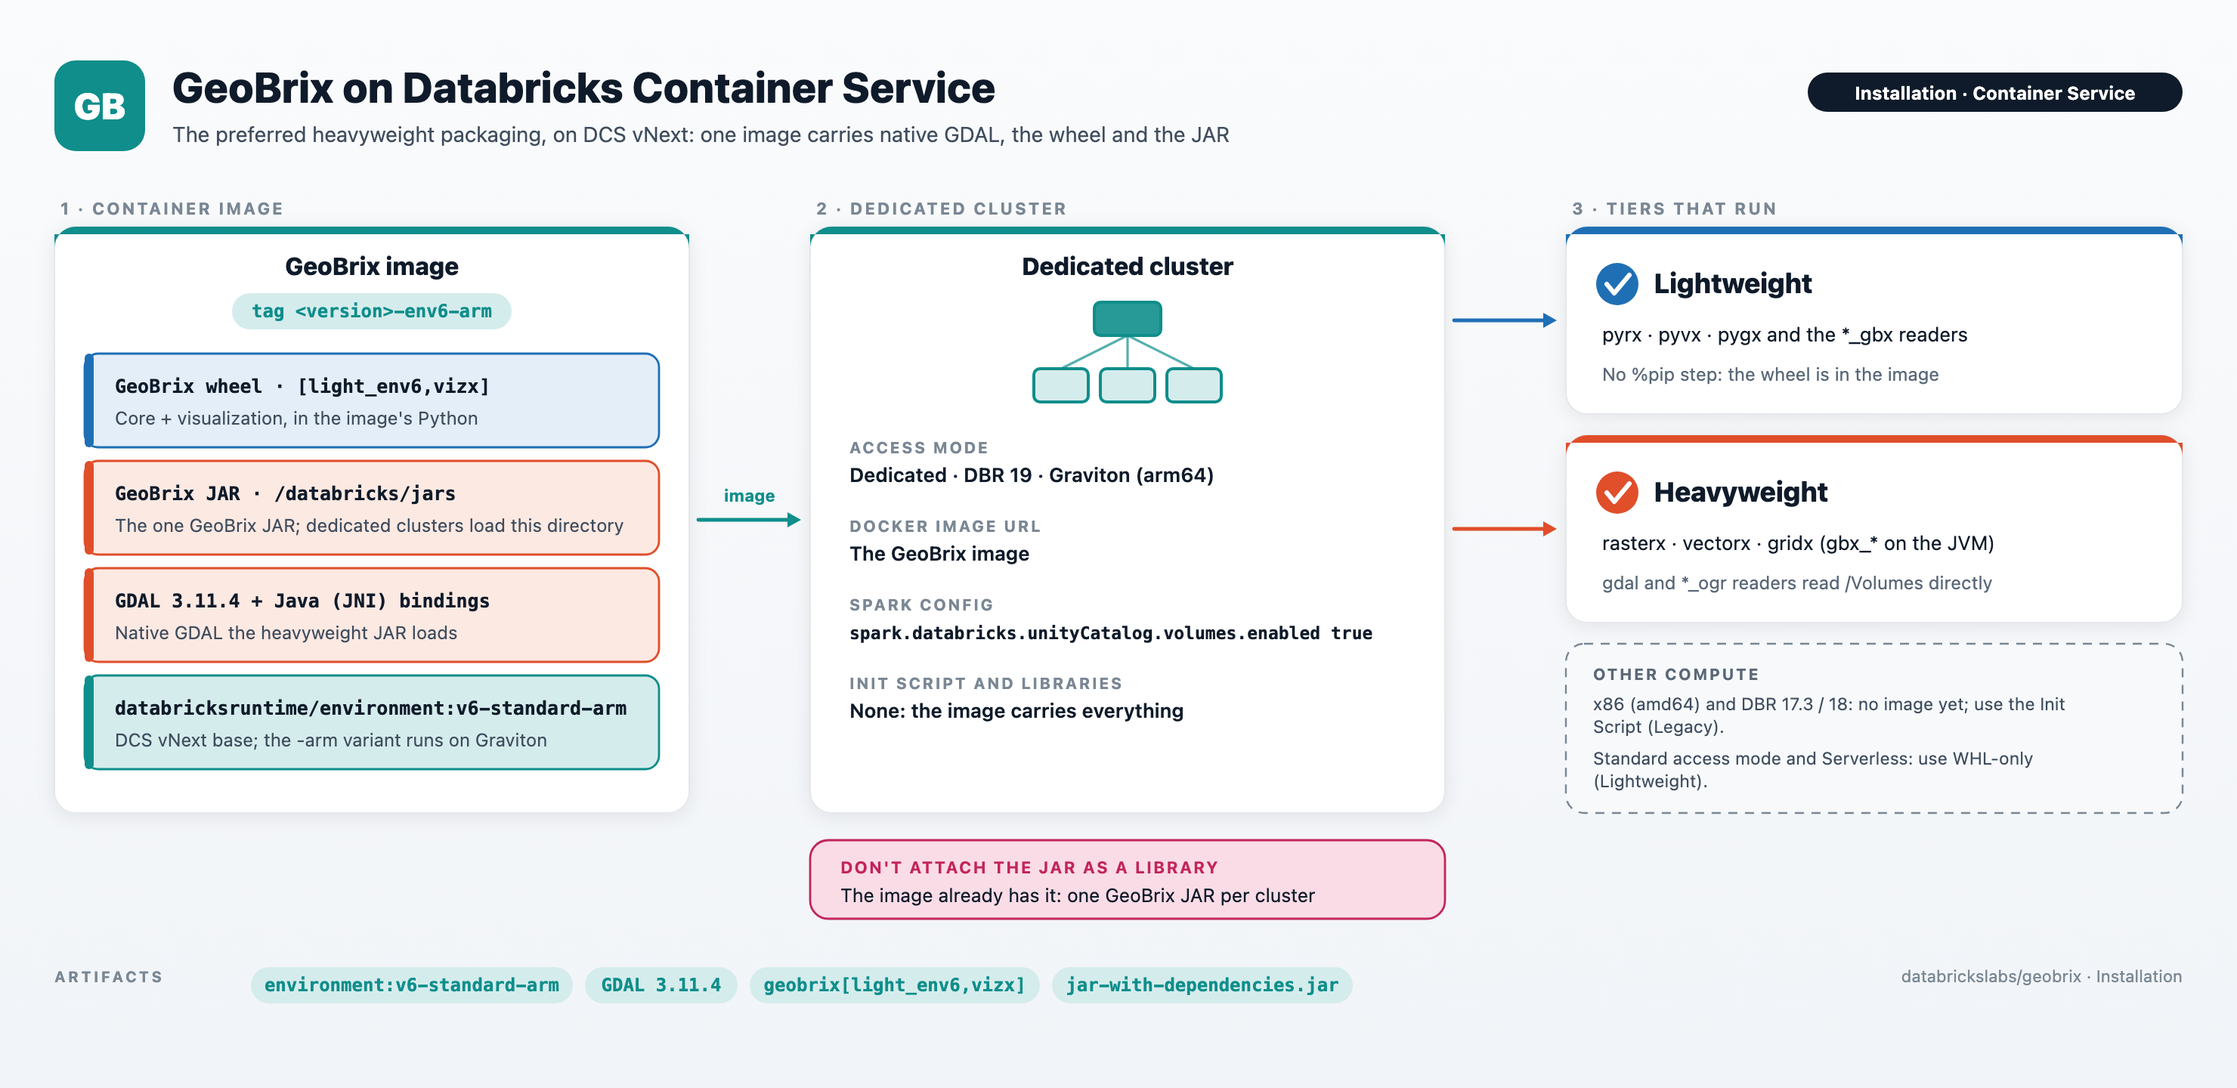
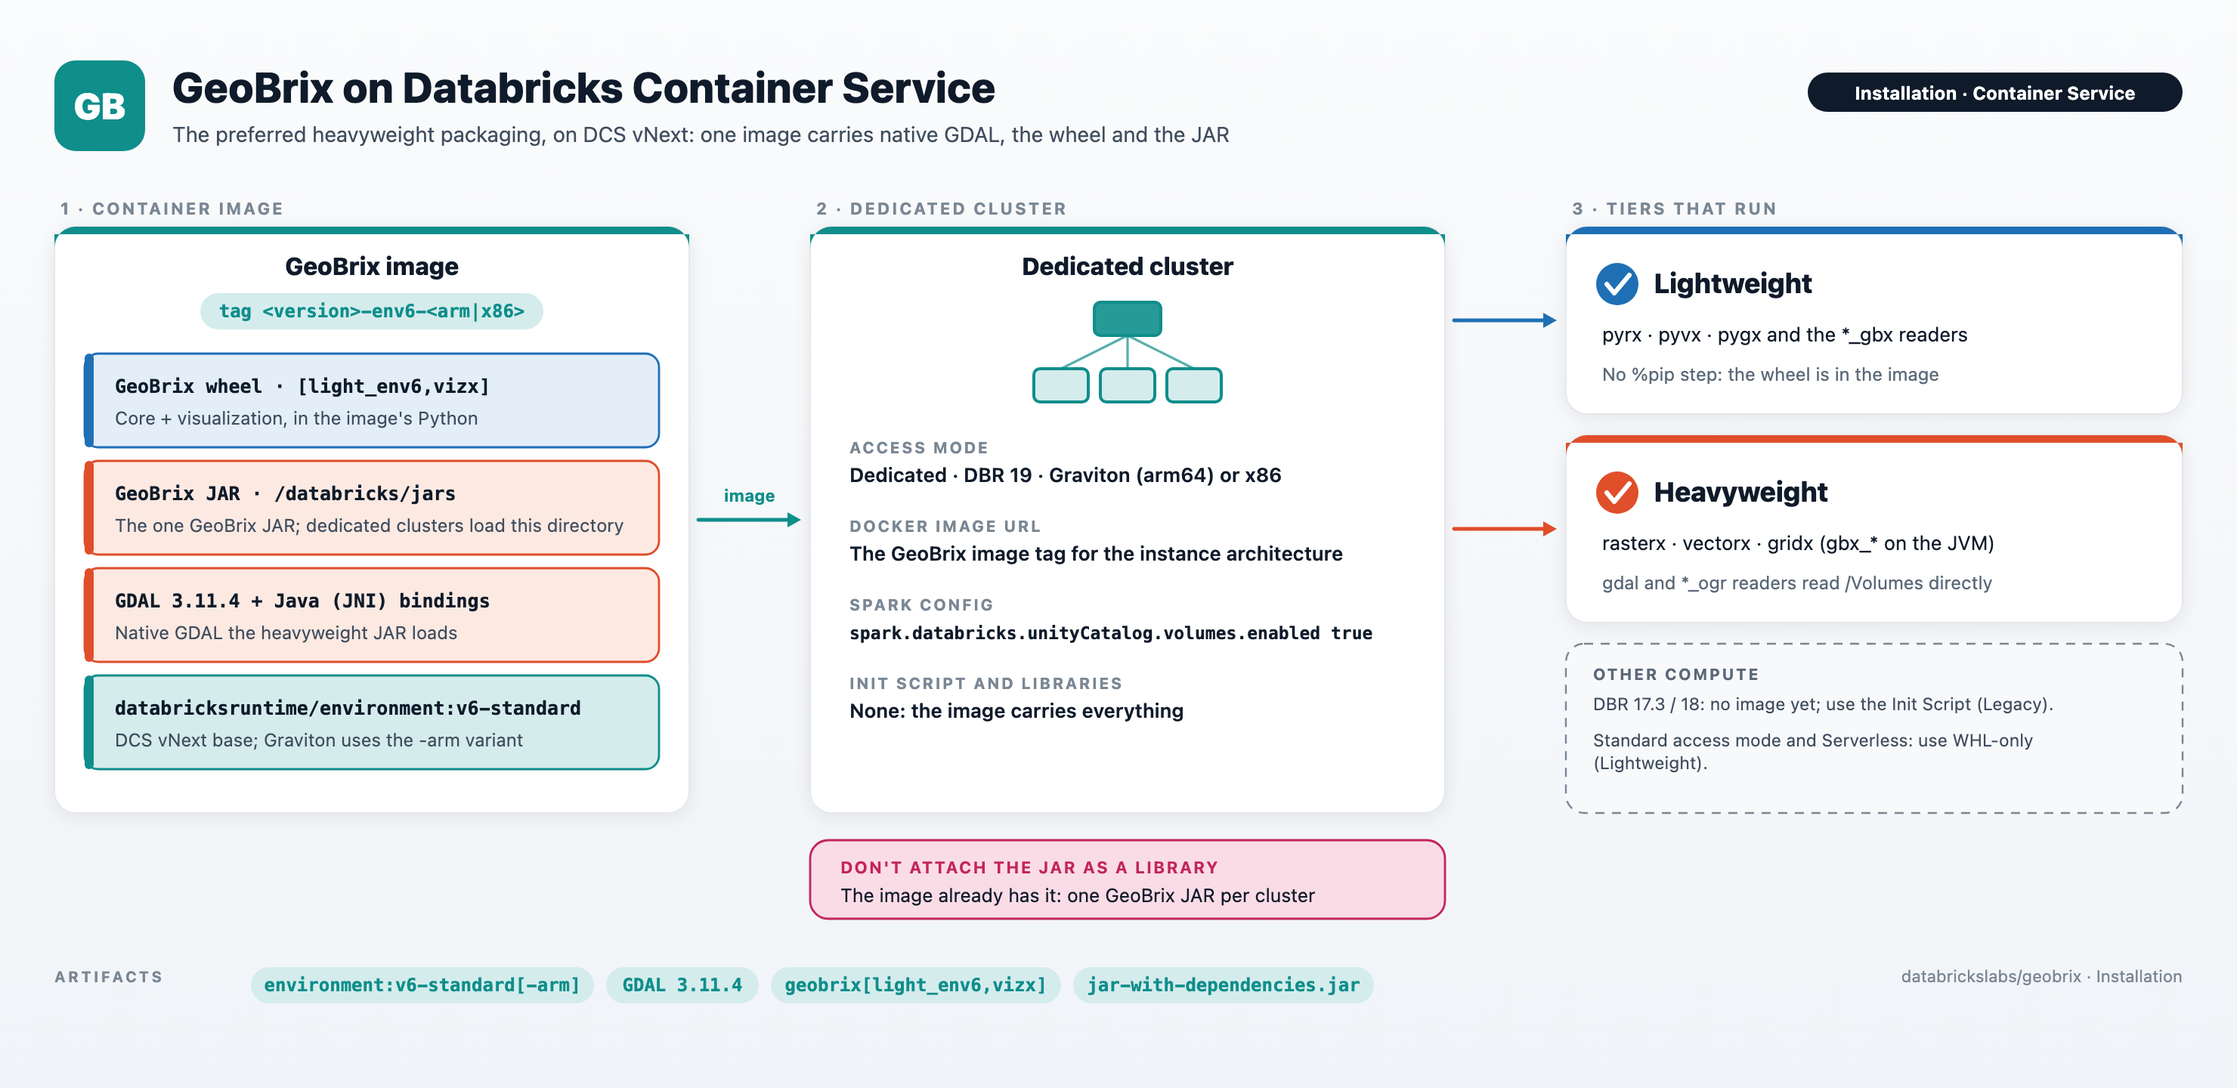
docs(dcs): x86 (amd64) image verified alongside arm64
The x86 image ran both tiers on a dedicated x86 cluster on DBR 19 with
the same results as the Graviton image, so the pages that called x86
"not yet available" or the DCS image Graviton-only were out of date and
would steer x86 users to the legacy init script for no reason.

Status table, image tags (env6-x86 next to env6-arm), cluster setup (pick
the tag that matches the instance architecture), the installation pages,
release notes, the compute tables and the "(preferred; ...)" mentions on
the reader and writer pages now cover both architectures. Only DBR 17.3 /
18 stays "not yet available". The release runbook shows both
architectures, each verified and released with its own --expect-digest.
The install-path and DCS diagrams are regenerated with their alt texts.

diff --git a/resources/images/generators/installation.py b/resources/images/generators/installation.py
@@ -238,10 +238,10 @@ PATHS = [
          tiers=["Lightweight"]),
     dict(theme=TEAL, glyph=g_container, letter="b",
          title="Databricks Container Service", chip="GeoBrix container image",
-         branch="Heavyweight · Graviton (arm64)", badge="PREFERRED",
-         runs="Dedicated cluster · Graviton (arm64) · DBR 19",
+         branch="Heavyweight · arm64 or x86 · DBR 19", badge="PREFERRED",
+         runs="Dedicated cluster · Graviton (arm64) or x86 · DBR 19",
          install="A GeoBrix image with native GDAL, the wheel and the JAR: no init script, no cluster library",
-         extra="Not yet available: x86 (amd64) and DBR 17.3 / 18 images",
+         extra="Not yet available: DBR 17.3 / 18 images",
          tiers=["Lightweight", "Heavyweight"]),
     dict(theme=VIOLET, glyph=g_script, letter="c",
          title="Init Script (Legacy)", chip="geobrix-gdal-init.sh",
@@ -315,12 +315,12 @@ def body_dcs():
     x1, w1 = PAD, 420
     out.append(col_label(x1 + 4, top - 8, "1 · CONTAINER IMAGE", C_MUTED_3))
     out.append(panel(x1, top, w1, h, accent=TEAL["accent"], title="GeoBrix image"))
-    out.append(centered_chip(x1 + w1 / 2, top + 44, "tag  <version>-env6-arm", TEAL))
+    out.append(centered_chip(x1 + w1 / 2, top + 44, "tag  <version>-env6-<arm|x86>", TEAL))
     layers = [
         ("GeoBrix wheel  ·  [light_env6,vizx]", "Core + visualization, in the image's Python", BLUE),
         ("GeoBrix JAR  ·  /databricks/jars", "The one GeoBrix JAR; dedicated clusters load this directory", ORANGE),
         ("GDAL 3.11.4 + Java (JNI) bindings", "Native GDAL the heavyweight JAR loads", ORANGE),
-        ("databricksruntime/environment:v6-standard-arm", "DCS vNext base; the -arm variant runs on Graviton", TEAL),
+        ("databricksruntime/environment:v6-standard", "DCS vNext base; Graviton uses the -arm variant", TEAL),
     ]
     lh, lgap = 62, 9
     ly = top + 84
@@ -339,8 +339,8 @@ def body_dcs():
     out.append(panel(x2, top, w2, h, accent=TEAL["accent"], title="Dedicated cluster"))
     out.append(g_cluster(x2 + w2 / 2, top + 84, TEAL["accent"], TEAL["tint"]))
     rows = [
-        ("ACCESS MODE", "Dedicated  ·  DBR 19  ·  Graviton (arm64)"),
-        ("DOCKER IMAGE URL", "The GeoBrix image"),
+        ("ACCESS MODE", "Dedicated  ·  DBR 19  ·  Graviton (arm64) or x86"),
+        ("DOCKER IMAGE URL", "The GeoBrix image tag for the instance architecture"),
         ("SPARK CONFIG", "spark.databricks.unityCatalog.volumes.enabled true"),
         ("INIT SCRIPT AND LIBRARIES", "None: the image carries everything"),
     ]
@@ -394,9 +394,8 @@ def body_dcs():
                f'fill="#F7F9FB" stroke="{C_MUTED_3}" stroke-width="1.2" stroke-dasharray="6 5"/>')
     out.append(text(sx + 18, sy + 24, "OTHER COMPUTE", size=10.5, weight=700,
                     fill=C_MUTED_2, letter_spacing="1.2"))
-    for yy, msg in ((44, "x86 (amd64) and DBR 17.3 / 18: no image yet; use the "
-                         "Init Script (Legacy)."),
-                    (80, "Standard access mode and Serverless: use WHL-only (Lightweight).")):
+    for yy, msg in ((44, "DBR 17.3 / 18: no image yet; use the Init Script (Legacy)."),
+                    (68, "Standard access mode and Serverless: use WHL-only (Lightweight).")):
         out.extend(wrap_left(sx + 18, sy + yy, sw - 36, msg, size=11.5, fill=C_MUTED,
                              line_h=15))
     return "".join(out)
@@ -505,7 +504,7 @@ DIAGRAMS = {
         subtitle="The preferred heavyweight packaging, on DCS vNext: one image carries native GDAL, the wheel and the JAR",
         pill="Installation  ·  Container Service",
         body=body_dcs,
-        chips=["environment:v6-standard-arm", "GDAL 3.11.4", "geobrix[light_env6,vizx]",
+        chips=["environment:v6-standard[-arm]", "GDAL 3.11.4", "geobrix[light_env6,vizx]",
                "jar-with-dependencies.jar"],
     ),
     "init-script": dict(

diff --git a/examples/notebooks/helios/README.md b/examples/notebooks/helios/README.md
@@ -4,7 +4,7 @@ A four-notebook series that takes one San Francisco bounding box and turns it in
 
 The notebooks follow a solar site-selection narrative: identify candidate rooftops (vector, NB01), overlay an aerial basemap for visual validation (raster, NB02), and layer terrain-derived slope, aspect, and hillshade to score each candidate by sun exposure (elevation, NB03). A final notebook re-publishes the vector layer as a distributed, sharded PMTiles mosaic — many archives plus a catalog and manifest — for web-scale delivery (NB04). The single-archive outputs feed a single `plot_pmtiles` / `plot_cog` viewer at the end.
 
-> **Lightweight tier (Serverless) by default.** The series uses the lightweight tier — pure Python/PySpark bindings (`databricks.labs.gbx.pyrx`, `pyvx`) plus the `geobrix[light_env6,stac,vizx,overture]` wheel installed by `config_nb` — so it runs on Serverless with no JAR. STAC discovery and download are handled by `StacClient` from `databricks.labs.gbx.stac` (see [STAC Client](https://databrickslabs.github.io/geobrix/docs/api/stac)); building footprints are fetched via `OvertureClient` from `databricks.labs.gbx.sample.overture`; visualization helpers come from `databricks.labs.gbx.vizx`. To run heavyweight instead, flip the commented *option-2* (`rasterx`) in `config_nb.ipynb` and run it on a dedicated cluster with the heavyweight tier installed, which brings the GeoBrix JAR — the GeoBrix [DCS image](https://databrickslabs.github.io/geobrix/docs/installation/dcs) (preferred; Graviton arm64, DBR 19) or the legacy [GDAL init script](https://databrickslabs.github.io/geobrix/docs/installation/init-script) (classic x86, DBR 17.3 / 18 / 19); see [Choose an install path](https://databrickslabs.github.io/geobrix/docs/installation#choose-an-install-path). See [Execution Tiers](https://databrickslabs.github.io/geobrix/docs/api/execution-tiers).
+> **Lightweight tier (Serverless) by default.** The series uses the lightweight tier — pure Python/PySpark bindings (`databricks.labs.gbx.pyrx`, `pyvx`) plus the `geobrix[light_env6,stac,vizx,overture]` wheel installed by `config_nb` — so it runs on Serverless with no JAR. STAC discovery and download are handled by `StacClient` from `databricks.labs.gbx.stac` (see [STAC Client](https://databrickslabs.github.io/geobrix/docs/api/stac)); building footprints are fetched via `OvertureClient` from `databricks.labs.gbx.sample.overture`; visualization helpers come from `databricks.labs.gbx.vizx`. To run heavyweight instead, flip the commented *option-2* (`rasterx`) in `config_nb.ipynb` and run it on a dedicated cluster with the heavyweight tier installed, which brings the GeoBrix JAR — the GeoBrix [DCS image](https://databrickslabs.github.io/geobrix/docs/installation/dcs) (preferred; Graviton arm64 or x86, DBR 19) or the legacy [GDAL init script](https://databrickslabs.github.io/geobrix/docs/installation/init-script) (classic x86, DBR 17.3 / 18 / 19); see [Choose an install path](https://databrickslabs.github.io/geobrix/docs/installation#choose-an-install-path). See [Execution Tiers](https://databrickslabs.github.io/geobrix/docs/api/execution-tiers).
 
 > **Data sources.** Building footprints are fetched from [Overture Maps](https://overturemaps.org/) via `OvertureClient.discover/download/read` — no manual download required. NAIP aerial imagery (NB02, via `NaipDownloader`) and USGS 3DEP 10-m DEMs (NB03, via `DemDownloader`) are retrieved from the Microsoft Planetary Computer STAC API; both are staged idempotently to the Volume so a re-run skips already-valid files. All three downloaders live in `databricks.labs.gbx.sample`; NAIP/3DEP are online-only (no offline fallback).
 

diff --git a/examples/notebooks/vapor-eyes/README.md b/examples/notebooks/vapor-eyes/README.md
@@ -13,7 +13,7 @@ A five-notebook series that takes one Permian (Delaware Basin) bounding box and 
 
 The notebooks follow a detection cascade, each tier narrowing and sharpening the last: **screen** the region with Sentinel-5P TROPOMI methane (NB01), **detect** a plume at the strongest hotspot with Sentinel-2 20 m SWIR (NB02), **quantify** it with EMIT 60 m imaging spectroscopy (NB03), **attribute** the plume origin to nearby Texas Railroad Commission wells and their operators (NB04), and **synthesize** the cascade into one self-contained vector PMTiles portfolio (NB05). Each step composes GeoBrix functions with Databricks-native `st_*` / `h3_*` spatial SQL.
 
-> **Lightweight tier (Serverless) by default.** The series uses the lightweight tier — pure Python/PySpark bindings (`databricks.labs.gbx.pyrx`, `pyvx`) plus the `geobrix[light_env6,stac,vizx,earthdata]` wheel installed by `config_nb` — so it runs on Serverless with no JAR. It features the **net-new `netcdf_gbx` reader** (`databricks.labs.gbx.ds`), which transcodes the Sentinel-5P netCDF-4 swath directly to points with no regridding. To run heavyweight instead, flip the commented *option-2* (`rasterx` / `vectorx`) in `config_nb.ipynb` and run it on a dedicated cluster with the heavyweight tier installed, which brings the GeoBrix JAR — the GeoBrix [DCS image](https://databrickslabs.github.io/geobrix/docs/installation/dcs) (preferred; Graviton arm64, DBR 19) or the legacy [GDAL init script](https://databrickslabs.github.io/geobrix/docs/installation/init-script) (classic x86, DBR 17.3 / 18 / 19); see [Choose an install path](https://databrickslabs.github.io/geobrix/docs/installation#choose-an-install-path). See [Execution Tiers](https://databrickslabs.github.io/geobrix/docs/api/execution-tiers).
+> **Lightweight tier (Serverless) by default.** The series uses the lightweight tier — pure Python/PySpark bindings (`databricks.labs.gbx.pyrx`, `pyvx`) plus the `geobrix[light_env6,stac,vizx,earthdata]` wheel installed by `config_nb` — so it runs on Serverless with no JAR. It features the **net-new `netcdf_gbx` reader** (`databricks.labs.gbx.ds`), which transcodes the Sentinel-5P netCDF-4 swath directly to points with no regridding. To run heavyweight instead, flip the commented *option-2* (`rasterx` / `vectorx`) in `config_nb.ipynb` and run it on a dedicated cluster with the heavyweight tier installed, which brings the GeoBrix JAR — the GeoBrix [DCS image](https://databrickslabs.github.io/geobrix/docs/installation/dcs) (preferred; Graviton arm64 or x86, DBR 19) or the legacy [GDAL init script](https://databrickslabs.github.io/geobrix/docs/installation/init-script) (classic x86, DBR 17.3 / 18 / 19); see [Choose an install path](https://databrickslabs.github.io/geobrix/docs/installation#choose-an-install-path). See [Execution Tiers](https://databrickslabs.github.io/geobrix/docs/api/execution-tiers).
 
 > **Data sources.** Sentinel-5P L2 CH4 (NB01, via `TropomiDownloader`) and Sentinel-2 L2A SWIR (NB02, via `StacClient`) are retrieved from the Microsoft Planetary Computer STAC API. EMIT L2B CH4 enhancement + plume-complex products (NB03, via `EmitDownloader`) come from the NASA LP DAAC through `earthaccess` and **require an Earthdata Login token** (a Unity Catalog secret; see Prerequisites). TX RRC well surface-hole locations (NB04, via `WellsDownloader`) come from the open TX RRC `WellSHL` ArcGIS REST service (no auth). All downloaders live in `databricks.labs.gbx.sample` and stage idempotently to the Volume, so a re-run skips already-valid files.
 

diff --git a/examples/notebooks/eo-series/README.md b/examples/notebooks/eo-series/README.md
@@ -4,7 +4,7 @@ An end-to-end Earth Observation (EO) example series built on [GeoBrix](https://d
 
 The four main notebooks move from vector area-of-interest → STAC discovery → band download → gridded (H3) raster tables → multi-band stacking and clipping. Sentinel-2 L2A over Alaska is used as the working dataset (scoped to a single county — Ketchikan, `GEOID=2130` — to fit Planetary Computer free-tier limits).
 
-> __Lightweight tier (Serverless) by default.__ The series uses the lightweight tier — pure Python/PySpark bindings (`databricks.labs.gbx.pyrx`) plus the `geobrix[light_env6,stac,vizx]` wheel, installed by `config_nb` — so it runs on Serverless with no JAR. STAC search and download are handled by `StacClient` from `databricks.labs.gbx.stac` (see [STAC Client](https://databrickslabs.github.io/geobrix/docs/api/stac)); visualization helpers come from `databricks.labs.gbx.vizx`. To run heavyweight instead, flip the commented *option-2* (`rasterx`) in `config_nb.ipynb` and run it on a dedicated cluster with the heavyweight tier installed, which brings the GeoBrix JAR — the GeoBrix [DCS image](https://databrickslabs.github.io/geobrix/docs/installation/dcs) (preferred; Graviton arm64, DBR 19) or the legacy [GDAL init script](https://databrickslabs.github.io/geobrix/docs/installation/init-script) (classic x86, DBR 17.3 / 18 / 19); see [Choose an install path](https://databrickslabs.github.io/geobrix/docs/installation#choose-an-install-path). Spark-conf tuning goes through a `set_conf_safe()` helper that no-ops on Serverless. See [Execution Tiers](https://databrickslabs.github.io/geobrix/docs/api/execution-tiers).
+> __Lightweight tier (Serverless) by default.__ The series uses the lightweight tier — pure Python/PySpark bindings (`databricks.labs.gbx.pyrx`) plus the `geobrix[light_env6,stac,vizx]` wheel, installed by `config_nb` — so it runs on Serverless with no JAR. STAC search and download are handled by `StacClient` from `databricks.labs.gbx.stac` (see [STAC Client](https://databrickslabs.github.io/geobrix/docs/api/stac)); visualization helpers come from `databricks.labs.gbx.vizx`. To run heavyweight instead, flip the commented *option-2* (`rasterx`) in `config_nb.ipynb` and run it on a dedicated cluster with the heavyweight tier installed, which brings the GeoBrix JAR — the GeoBrix [DCS image](https://databrickslabs.github.io/geobrix/docs/installation/dcs) (preferred; Graviton arm64 or x86, DBR 19) or the legacy [GDAL init script](https://databrickslabs.github.io/geobrix/docs/installation/init-script) (classic x86, DBR 17.3 / 18 / 19); see [Choose an install path](https://databrickslabs.github.io/geobrix/docs/installation#choose-an-install-path). Spark-conf tuning goes through a `set_conf_safe()` helper that no-ops on Serverless. See [Execution Tiers](https://databrickslabs.github.io/geobrix/docs/api/execution-tiers).
 
 > __Note:__ Downloads are throttled on the Planetary Computer free tier. `StacClient.download` validates each file with a rasterio read and publishes to the Volume only when the file passes. Call `stac_client.repair("band_b02")` to re-download any files that failed validation. Set `FORCE_REBUILD = True` (after `%run ./config_nb`) to force a full rebuild via the existing `do_overwrite` / skip-guards.
 

diff --git a/examples/notebooks/xview/README.md b/examples/notebooks/xview/README.md
@@ -6,7 +6,7 @@ The single notebook moves from raw xView TGZ archives → a raster table loaded 
 
 ![xView — clip aerial rasters to labeled objects](../../../resources/images/diagrams/xview/xview-clipping.png)
 
-> **Runs on the lightweight tier (Serverless) by default.** The notebook uses the lightweight tier — pure Python/PySpark bindings (`databricks.labs.gbx.pyrx`) plus the `geobrix[light_env6]` wheel — so it runs on Serverless with no JAR. To run it on the heavyweight tier instead, make a few tweaks: swap the import to `databricks.labs.gbx.rasterx` (the commented *option-2* in the setup cell) and, on a dedicated cluster, use an install that brings the GeoBrix JAR and the native GDAL libraries the JNI bindings load — the GeoBrix [DCS image](https://databrickslabs.github.io/geobrix/docs/installation/dcs) (preferred; Graviton arm64, DBR 19) or the legacy [GDAL init script](https://databrickslabs.github.io/geobrix/docs/installation/init-script) (classic x86, DBR 17.3 / 18 / 19); see [Choose an install path](https://databrickslabs.github.io/geobrix/docs/installation#choose-an-install-path). Either way the preview cells render with the tier-agnostic [VizX](https://databrickslabs.github.io/geobrix/docs/api/vizx) helpers (`plot_raster` / `plot_file`), pulled in via the `geobrix[vizx]` extra. See [Execution Tiers](https://databrickslabs.github.io/geobrix/docs/api/execution-tiers).
+> **Runs on the lightweight tier (Serverless) by default.** The notebook uses the lightweight tier — pure Python/PySpark bindings (`databricks.labs.gbx.pyrx`) plus the `geobrix[light_env6]` wheel — so it runs on Serverless with no JAR. To run it on the heavyweight tier instead, make a few tweaks: swap the import to `databricks.labs.gbx.rasterx` (the commented *option-2* in the setup cell) and, on a dedicated cluster, use an install that brings the GeoBrix JAR and the native GDAL libraries the JNI bindings load — the GeoBrix [DCS image](https://databrickslabs.github.io/geobrix/docs/installation/dcs) (preferred; Graviton arm64 or x86, DBR 19) or the legacy [GDAL init script](https://databrickslabs.github.io/geobrix/docs/installation/init-script) (classic x86, DBR 17.3 / 18 / 19); see [Choose an install path](https://databrickslabs.github.io/geobrix/docs/installation#choose-an-install-path). Either way the preview cells render with the tier-agnostic [VizX](https://databrickslabs.github.io/geobrix/docs/api/vizx) helpers (`plot_raster` / `plot_file`), pulled in via the `geobrix[vizx]` extra. See [Execution Tiers](https://databrickslabs.github.io/geobrix/docs/api/execution-tiers).
 
 ---
 

diff --git a/README.md b/README.md
@@ -34,7 +34,7 @@
 ## Tiers
 
 - **Lightweight tier** — pure Python (+ SQL bindings) on [rasterio](https://rasterio.readthedocs.io/)/[pyogrio](https://pyogrio.readthedocs.io/)/[shapely](https://shapely.readthedocs.io/), **no JAR, no init script, no native GDAL bundle**. Runs on **Serverless**, standard (shared), Lakeflow pipelines, and **ARM** — where the heavyweight tier can't.
-- **Heavyweight tier** — Scala (Python and SQL bindings) + native GDAL for distributed processing on dedicated clusters — with the GeoBrix [DCS image](https://databrickslabs.github.io/geobrix/docs/installation/dcs) (preferred; Graviton arm64, DBR 19) or the legacy [init script](https://databrickslabs.github.io/geobrix/docs/installation/init-script) (classic x86, DBR 17.3 / 18 / 19); see [Choose an install path](https://databrickslabs.github.io/geobrix/docs/installation#choose-an-install-path). **Same function names across tiers** — switching is a one-line import change.
+- **Heavyweight tier** — Scala (Python and SQL bindings) + native GDAL for distributed processing on dedicated clusters — with the GeoBrix [DCS image](https://databrickslabs.github.io/geobrix/docs/installation/dcs) (preferred; Graviton arm64 or x86, DBR 19) or the legacy [init script](https://databrickslabs.github.io/geobrix/docs/installation/init-script) (classic x86, DBR 17.3 / 18 / 19); see [Choose an install path](https://databrickslabs.github.io/geobrix/docs/installation#choose-an-install-path). **Same function names across tiers** — switching is a one-line import change.
 
 ## Packages
 
